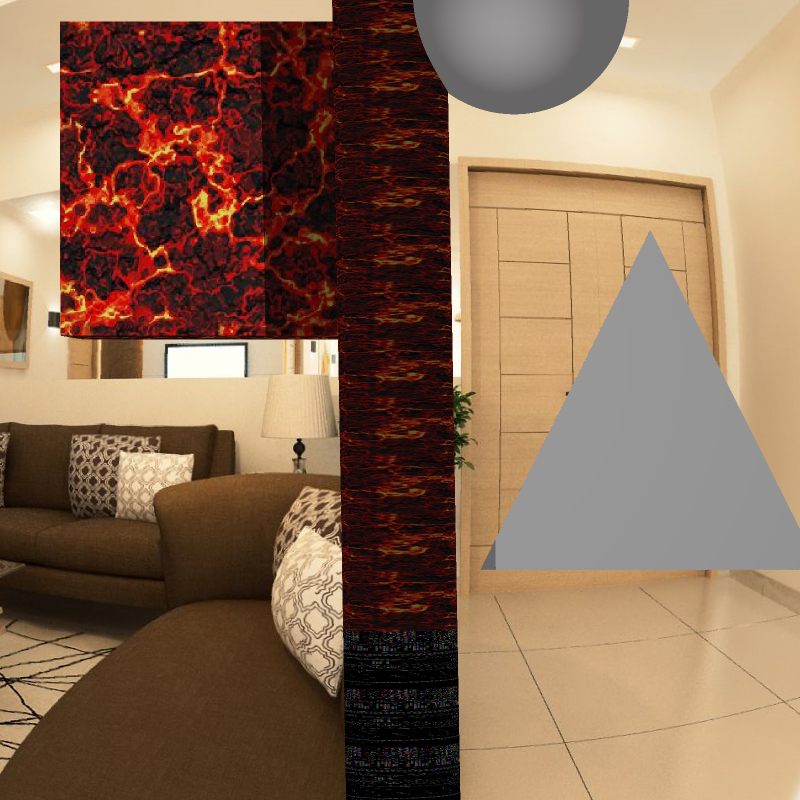
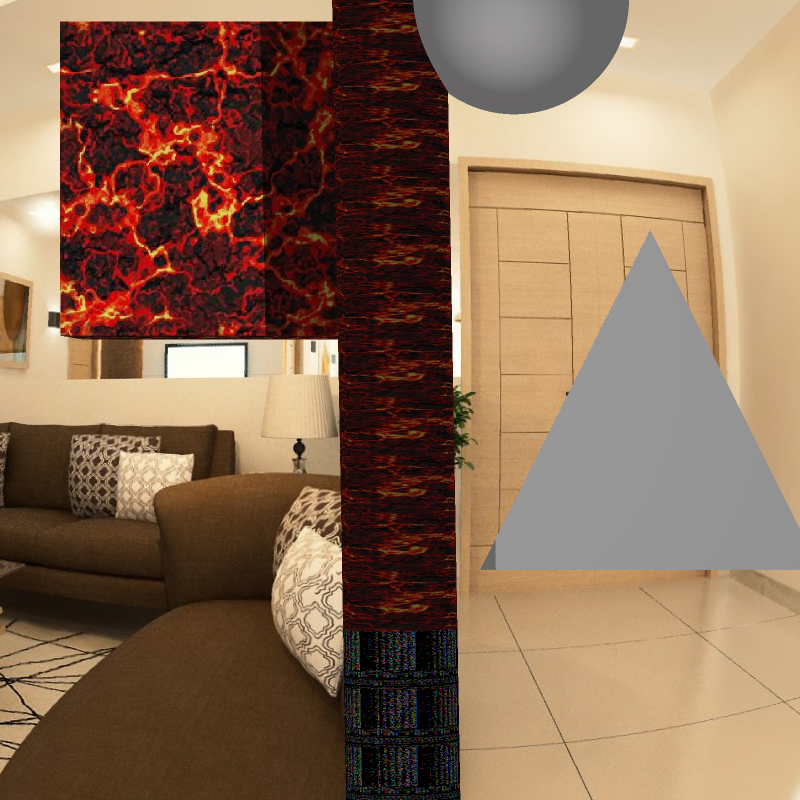
add linear to sRGB convertion

Changed region(s): [[0.4062, 0.7812, 0.5938, 1.0]]

diff --git a/Raytracing/src/image/Image.cpp b/Raytracing/src/image/Image.cpp
@@ -4,6 +4,7 @@
 #include "../../headers/image/Image.h"
 #include "../../headers/image/stb_image.h"
 #include "../../headers/image/stb_image_write.h"
+#include "../../headers/math/Constants.h"
 
 #include <iostream>
 
@@ -96,6 +97,33 @@ Color Image::getColor(float u, float v) const
 		this->_data[index + 1] / 256.f,
 		this->_data[index + 2] / 256.f
 	);
+}
+
+void Image::linear2sRGB()
+{
+	for (int j = 0; j < this->_height; j++)
+	{
+		for (int i = 0; i < this->_width; i++)
+		{
+			int index = (j * this->_height + i) * this->_channels;
+
+			this->_data[index] = (uint8_t)(255.999f * pow(this->_data[index] / 255.999f, GAMMA));
+			this->_data[index + 1] = (uint8_t)(255.999f * pow(this->_data[index + 1] / 255.999f, GAMMA));
+			this->_data[index + 2] = (uint8_t)(255.999f * pow(this->_data[index + 2] / 255.999f, GAMMA));
+		}
+	}
+}
+
+void Image::sRGB2Linear()
+{
+	for (int j = 0; j < this->_height; j++)
+	{
+		for (int i = 0; i < this->_width; i++)
+		{
+			Color c = this->getColor(i, j);
+			this->setColor(i,j,Color(pow(c[0],1.f/GAMMA),pow(c[1], 1.f / GAMMA),pow(c[2], 1.f / GAMMA)));
+		}
+	}
 }
 
 uint8_t Image::operator()(int x, int y, int c) const

diff --git a/Raytracing/headers/image/Image.h b/Raytracing/headers/image/Image.h
@@ -43,6 +43,9 @@ public:
 	Image& setColor(int x, int y, const Color& c);
 	Color getColor(float u, float v) const;
 
+	void linear2sRGB();
+	void sRGB2Linear();
+
 	uint8_t operator()(int x, int y, int c) const;
 	uint8_t& operator()(int x, int y, int c);
 

diff --git a/Raytracing/headers/math/Constants.h b/Raytracing/headers/math/Constants.h
@@ -4,5 +4,6 @@
 constexpr auto PI = 3.14159265359;
 constexpr auto DEG2RAD = PI / 180;
 constexpr auto EPSILON = 0.0000001;
+constexpr auto GAMMA = 1.0/2.2;
 
 #endif
